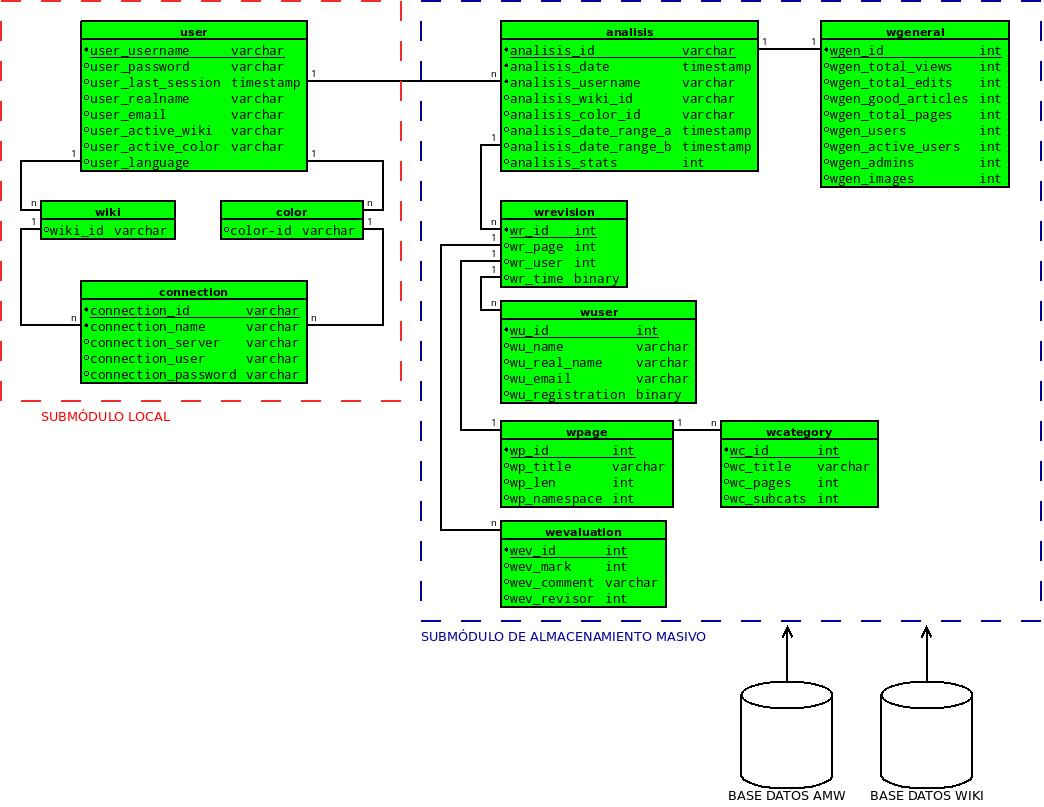
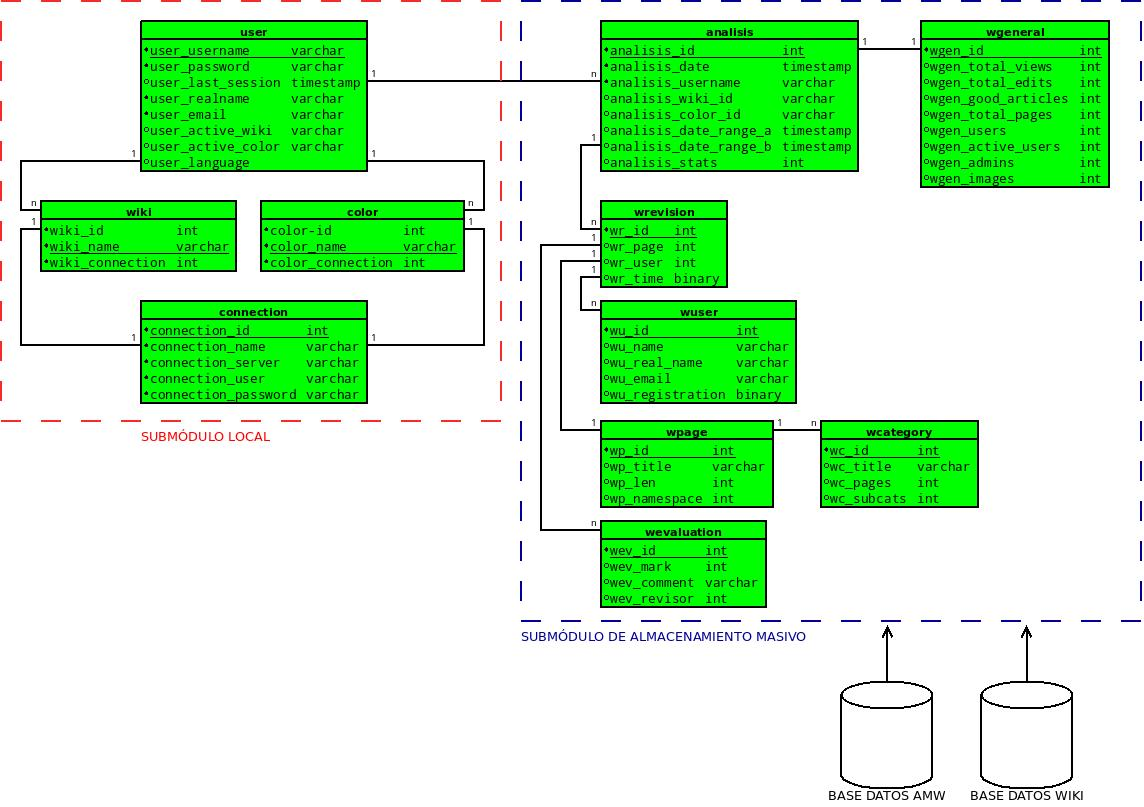
Modificada db local. Optimizado modelo de conexión. Adaptando y optimizando modelo de wikis.
git-svn-id: https://forja.rediris.es/svn/cleverfigures@42 a053ac88-d4ad-4f58-a43f-47ca826c7790

diff --git a/application/models/wiki_model.php b/application/models/wiki_model.php
@@ -10,127 +10,160 @@
 
 class Wiki_model extends CI_Model{
 	
-	//ATTRIBUTES
-	private $wiki_id;
-	private $wiki_connection;
-	private $wiki_link;
-	
-	//METHODS
 	//constructor
-   	function Wiki_model($id, $connection){
+   	function Wiki_model(){
    	   	parent::__construct();
    	   	$this->load->helper('date');
    	   	$ci =& get_instance();
 		$ci->load->model('connection_model');
-   	   	
-		$this->wiki_id = $id;
-		$this->wiki_connection = $connection;
-		
-		$check = $this->db->query("select * from Wiki where wiki_id == $this->wiki_id");
+   	}
+   	
+   	private function wconnection($name){
+   		$query = $this->db->query("select wiki_connection from wiki where wiki_name == $name");
+   		if($check->result()->num_rows() == 0)
+   			return "connection(): ERR_NONEXISTENT";
+   		else
+   			foreach($check->result() as $row)
+   				return $row->wiki_connection;
+   	}
+   	
+   	function new_wiki($name, $db_server, $db_name, $db_user, $db_password){
+   		$my_con = $this->connection_model->new_connection($db_server, $db_name, $db_user, $db_password);
+   		if(gettype($my_con) != "integer")
+   			return "new_wiki(): $my_con";
+   			
+   		$check = $this->db->query("select * from wiki where wiki_name == $name");
    		if($check->result()->num_rows() != 0)
-   			die("Wiki_model:__construct(): Wiki $this->wiki_id already exists.");
+   			return "new_wiki(): ERR_ALREADY_EXISTS";
    		else{
-   			$sql = array('wiki_id' => "$this->wiki_id",
-   				'wiki_connection' => "$this->wiki_connection"
+   			$sql = array('wiki_id' => "",
+   				'wiki_name' => "$name",
+   				'wiki_connection' => "$my_con"
    				);
-			$this->db->insert('Wiki', $sql);
+			$this->db->insert('wiki', $sql);
 		
 			if($this->db->affected_rows() != 1) 
-				die("Wiki_model:__construct(): Error saving wiki $this->wiki_id.");
+				return "new_wiki(): ERR_AFFECTED_ROWS (".$this->db->affected_rows().")";
+			else
+				return  $this->db->insert_id();
 		}
    	}
    	
-   	function id(){return $this->wiki_id;}
-   	
-   	function connection(){return $this->wiki_connection;}
-   	
-   	function fetch_general_stats(){
-   		return $this->connection()->get_query("SELECT ss_total_views, ss_total_edits, ss_good_articles, ss_total_pages, ss_users, ss_active_users, ss_admins, ss_images FROM site_stats LIMIT 1");
+   	function fetch_general_stats($name){
+   		$link = $this->connection_model->connect($this->wconnection($name));
+   		$result = $this->connection_model->get_query($link, "SELECT * FROM site_stats");
+   		foreach($result as $row){
+   			$sql = array('wgen_id' => '',
+   					'wgen_total_views' => "$row->ss_total_views",
+   					'wgen_total_edits' => "$row->ss_total_edits",
+   					'wgen_good_articles' => "$row->ss_good_articles",
+   					'wgen_total_peges' => "$row->ss_total_pages",
+   					'wgen_users' => "$row->ss_users",
+   					'wgen_active_users' => "$row->ss_active_users",
+   					'wgen_admins' => "$row->ss_admins",
+   					'wgen_images' => "$row->ss_images",
+   				);
+	
+			$this->db->insert('wgeneral', $sql);
+		
+			if($this->db->affected_rows() != 1) 
+				return "fetch_general_stats(): ERR_AFFECTED_ROWS (".$this->db->affected_rows().")";
+			else 
+				return $this->db->insert_id();
+   		}
    	}
    	
-   	function fetch_linked_categories($date_range_a => 'default', $date_range_b => 'default', $page => 'default'){
+   	function fetch_category_links($name, $date_range_a => 'default', $date_range_b => 'default'){ //PENDIENTE AÑADIR FILTROS!!!
+   		$link = $this->connection_model->connect($this->wconnection($name));
+   		
    		if($date_range_a == 'default'){
-   			$initial_date = $this->connection()->get_query("SELECT rev_timestamp FROM revision ORDER BY rev_timestamp ASC LIMIT 1");
+   			$initial_date = $this->connection_model->get_query($link, "SELECT rev_timestamp FROM revision ORDER BY rev_timestamp ASC LIMIT 1");
    			if($initial_date->num_rows() != 0)
    				foreach ($initial_date as $row)
    					$date_range_a = $row -> rev_timestamp;
    			else
-   				return false;
+   				return "fetch_linked_categories(): ERR_NONEXISTENT";
    		}
    		
    		if($date_range_b == 'default')
    			$date_range_b = date('Y-m-d H:i:s', now());
    		
-   		$result = $this->connection()->get_query("SELECT cl_from, cl_to FROM scategorylinks WHERE cl_from IN (SELECT DISTINCT rev_page FROM revision WHERE rev_timestamp>=$date_range_a and rev_timestamp<=$date_range_b)");
+   		$result = $this->connection_model->get_query($link, "SELECT cl_from, cl_to FROM categorylinks WHERE cl_from IN (SELECT DISTINCT rev_page FROM revision WHERE rev_timestamp >= $date_range_a and rev_timestamp <= $date_range_b)");
    		
-   		$counter = 0;
+   		$data = array();
    		foreach ($result as $row){
-   			$array[$row->cl_from] = $row->cl_to;
-   			$counter++;
+   			$data['wp_id'] = $row->cl_from,
+   			$data['wc_title'] = $row->cl_to;
+   			
+   			$this->connection_model->make_insert($link, 'wpage-wcategory', $data);
    		}
    		
-   		return $array; //$[page id] = category name
+   		return true;
    	}
    	
-   	function fetch_all_categories($date_range_a => 'default', $date_range_b => 'default'){
+   	function fetch_categories($name, $date_range_a => 'default', $date_range_b => 'default'){ //PENDIENTE AÑADIR FILTROS!!!
+   		$link = $this->connection_model->connect($this->wconnection($name));
+   		
    		if($date_range_a == 'default'){
-   			$initial_date = $this->connection()->get_query("SELECT rev_timestamp FROM revision ORDER BY rev_timestamp ASC LIMIT 1");
+   			$initial_date = $this->connection_model->get_query($link, "SELECT rev_timestamp FROM revision ORDER BY rev_timestamp ASC LIMIT 1");
    			if($initial_date->num_rows() != 0)
    				foreach ($initial_date as $row)
    					$date_range_a = $row -> rev_timestamp;
    			else
-   				return false;
+   				return "fetch_all_categories(): ERR_NONEXISTENT";
    		}
    		
    		if($date_range_b == 'default')
    			$date_range_b = date('Y-m-d H:i:s', now());
    		
-   		$result = $this->connection()->get_query("SELECT page_title FROM page WHERE page_namespace=14 AND page_id IN (SELECT DISTINCT rev_page FROM revision WHERE rev_timestamp>=$date_range_a and rev_timestamp<=$date_range_b)");
+   		$result = $this->connection_model->get_query($link, "SELECT cat_title, cat_pages, cat_subcats FROM page, category WHERE page_title == cat_title AND page_namespace=14 AND page_id IN (SELECT DISTINCT rev_page FROM revision WHERE rev_timestamp>=$date_range_a and rev_timestamp<=$date_range_b)");
    		
-   		$counter = 0;
+   		$data = array();
    		foreach ($result as $row){
-   			$array[$counter] = $row->page_title;
-   			$counter++;
+   			$data['wc_id'] = '',
+   			$data['wc_title'] = $row->cat_title,
+   			$data['wc_pages'] = $row->cat_pages,
+   			$data['wc_subcats'] = $row->cat_subcats;
+   			
+   			$this->connection_model->make_insert($link, 'wcategory', $data);
    		}
    		
-   		return $array; //$[index] = page title
+   		return true;
    	}
    	
-   	function fetch_first_date(){
-   		$result = $this->connection()->get_query("SELECT rev_timestamp FROM revision ORDER BY rev_timestamp ASC LIMIT 1");
+   	function fetch_images($name, $date_range_a => 'default', $date_range_b => 'default'){ //PENDIENTE AÑADIR FILTROS!!!
+   		$link = $this->connection_model->connect($this->wconnection($name));
    		
-   		$counter = 0;
-   		foreach ($result as $row){
-   			$array[$counter] = $row->rev_timestamp;
-   			$counter++;
-   		}
-   		
-   		return $array; //$[index] = rev_timestamp
-   	}
-   	
-   	function fetch_image_info($date_range_a => 'default', $date_range_b => 'default'){
    		if($date_range_a == 'default'){
-   			$initial_date = $this->connection()->get_query("SELECT rev_timestamp FROM revision ORDER BY rev_timestamp ASC LIMIT 1");
+   			$initial_date = $this->connection_model->get_query($link, "SELECT rev_timestamp FROM revision ORDER BY rev_timestamp ASC LIMIT 1");
    			if($initial_date->num_rows() != 0)
    				foreach ($initial_date as $row)
    					$date_range_a = $row -> rev_timestamp;
    			else
-   				return false;
+   				return "fetch_images(): ERR_NONEXISTENT";
    		}
    		
    		if($date_range_b == 'default')
    			$date_range_b = date('Y-m-d H:i:s', now());
    		
-   		$result = $this->connection()->get_query("SELECT img_name, img_user, img_user_text, img_timestamp, img_size FROM image WHERE img_timestamp>=$date_range_a AND img_timestamp<=$date_range_b");
+   		$result = $this->connection_model->get_query($link, "SELECT img_name, img_user, img_user_text, img_timestamp, img_size FROM image WHERE img_timestamp >= $date_range_a AND img_timestamp <= $date_range_b");
    		
-   		$counter = 0;
+   		$data = array();
    		foreach ($result as $row){
-   			$array[$counter] = $row->page_title;
-   			$counter++;
+   			$data['wc_id'] = '',
+   			$data['wi_name'] = $row->img_name,
+   			$data['wi_user'] = $row->img_user,
+   			$data['wi_user_text'] = $row->img_user_text,
+   			$data['wi_timestamp'] = $row->img_timestamp,
+   			$data['wi_size'] = $row->img_size;
+   			
+   			$this->connection_model->make_insert($link, 'wimage', $data);
    		}
    		
-   		return $array; //$[index] = page title
+   		return true;
    	}
+   	
+   	function fetch_users(){}/////////////////////////////////
    	
    	function delete_wiki(){
    		$check = $this->db->query("select * from Wiki where wiki_id == $this->wiki_id");

diff --git a/application/models/connection_model.php b/application/models/connection_model.php
@@ -1,110 +1,86 @@
 <?php
 
 //AVAILABLE METHODS
-// 	name()
-//    	server()
-//    	user()
-//    	password()
-//    	get_query($query_string)
-//    	delete_connection()
+// 	new_connection($server, $name, $user, $password)
+//    	connect($id)
+//    	get_query($link, $query_string)
+//    	delete_connection($id)
    	
 class Connection_model extends CI_Model{
 	
-	//ATTRIBUTES
-   	private $connection_id;
-	private $connection_name;
-	private $connection_server;
-	private $connection_user;
-	private $connection_password;
-	private $connection_link;
-	
-	//METHODS
 	//constructor
-   	function Connection_model($id, $server => 'default', $name => 'default', $user => 'default', $password => 'default'){
+   	function Connection_model(){
    	   	parent::__construct();
-   	   	
-   	   	if($server == 'default' && $name == 'default' && $user == 'default' && $password == 'default'){
-   			$query = $this->db->query("select * from Connection where connection_id == $id");
-   			if($query->result()->num_rows() != 0)
-   				foreach ($query->result() as $row){
-   					$this->connection_id = $row -> connection_id;
-   					$this->connection_server = $row -> connection_server;
-   					$this->connection_name = $row -> connection_name;
-   					$this->connection_user = $row -> connection_user;
-   					$this->connection_password = $row -> connection_password;
-   				}
-   			else
-   				die("Connection_model:__construct(): Connection $id not found.");
-   	   	}
-   	   	else{
-   	   		$this->connection_id = $id;
-			$this->connection_server = $server;
-   	   		$this->connection_name = $name;
-			$this->connection_user = $user;
-			$this->connection_password = $password;
-			
-			$check = $this->db->query("select * from Connection where connection_id == $this->connection_id");
-   			if($check->result()->num_rows() != 0)
-   				die("Connection_model:__construct(): Connection $this->connection_id already exists.");
-   			else{
-   				$sql = array('connection_id' => "$this->connection_id",
-   					'connection_name' => "$this->connection_name",
-   					'connection_server' => "$this->connection_server",
-   					'connection_user' => "$this->connection_user",
-   					'connection_password' => "$this->connection_password"
-   				);
-	
-				$this->db->insert('Connection', $sql);
-		
-				if($this->db->affected_rows() != 1) 
-					die("Connection_model:__construct(): Error saving connection $this->connection_id.");
-				else return TRUE;
-			}
-   	   	}
-		
-		$dba['hostname'] = $this->connection_server;
-		$dba['username'] = $this->connection_user;
-		$dba['password'] = $this->connection_password;
-		$dba['database'] = $this->connection_name;
-		$dba['dbdriver'] = 'mysql';
-		$dba['dbprefix'] = '';
-		$dba['pconnect'] = FALSE;
-		$dba['db_debug'] = TRUE;
-		$dba['cache_on'] = FALSE;
-		$dba['cachedir'] = '';
-		$dba['char_set'] = 'utf8';
-		$dba['dbcollat'] = 'utf8_general_ci';
-		$dba['swap_pre'] = '';
-		$dba['autoinit'] = TRUE;
-		$dba['stricton'] = FALSE;
-			
-   		$this->connection_link = $this->load->database($dba, TRUE);
    	}
    	
-   	function id(){return $this->connection_id;}
+   	function new_connection($server, $name, $user, $password){
+   	   	$check = $this->db->query("select * from connection where connection_server == $server and connection_name == $name and connection_user == $user");
+   		if($check->result()->num_rows() != 0)
+   			return "new_connection(): ERR_ALREADY_EXISTS";
+   		else{
+   			$sql = array('connection_id' => "",
+   				'connection_name' => "$name",
+   				'connection_server' => "$server",
+   				'connection_user' => "$user",
+   				'connection_password' => "$password"
+   			);
+					$this->db->insert('Connection', $sql);
+	
+			if($this->db->affected_rows() != 1) 
+				return "new_connection(): ERR_AFFECTED_ROWS (".$this->db->affected_rows().")";
+			else 
+				return  $this->db->insert_id();
+		}
+	}
+	
+	function connect($id){
+		$query = $this->db->query("select * from connection where connection_id == $id");
+   		if($query->result()->num_rows() == 0)
+   			return "connect(): ERR_NONEXISTENT";
+   		else{
+   			$result = $query->result();
+   			foreach($result as $row){
+   				$dba['hostname'] = $row->connection_server;
+				$dba['username'] = $row->connection_user;
+				$dba['password'] = $row->connection_password;
+				$dba['database'] = $row->connection_name;
+				$dba['dbdriver'] = 'mysql';
+				$dba['dbprefix'] = '';
+				$dba['pconnect'] = FALSE;
+				$dba['db_debug'] = TRUE;
+				$dba['cache_on'] = FALSE;
+				$dba['cachedir'] = '';
+				$dba['char_set'] = 'utf8';
+				$dba['dbcollat'] = 'utf8_general_ci';
+				$dba['swap_pre'] = '';
+				$dba['autoinit'] = TRUE;
+				$dba['stricton'] = FALSE;
+			
+   				return $this->load->database($dba, TRUE);
+   			}
+   				
+		}
+	}
    	
-   	function name(){return $this->connection_name;}
-   	
-   	function server(){return $this->connection_server;}
-   	
-   	function user(){return $this->connection_user;}
-   	
-   	function password(){return $this->connection_password;}
-   	
-   	function clink(){return $this->connection_link;}
-   	
-   	function get_query($query_string){
-   		$query = $this->connection_link->query($query_string);
+   	function get_query($link, $query_string){
+   		$query = $link->query($query_string);
    		return $query->result();
    	}
    	
-   	function delete_connection(){
-   		$check = $this->db->query("select * from Connection where connection_id == $this->connection_id");
+   	function make_insert($link, $table, $insert_array){
+   		$link->insert_string($table, $insert_array);
+   	}
+   	
+   	function delete_connection($id){
+   		$check = $this->db->query("select * from connection where connection_id == $id");
    		if($check->result()->num_rows() == 0)
-   			die("delete_connection(): Connection $this->connection_id doesn't exist.");
+   			return "delete_connection(): ERR_NONEXISTENT";
    		else
-   		 	$this->db->delete('Connection', array('connection_id' => $this->connection_name)); 
-   		 	return TRUE;
+   		 	$this->db->delete('connection', array('connection_id' => $id)); 
+   		 	if($this->db->affected_rows() != 1) 
+				return "delete_connection(): ERR_AFFECTED_ROWS (".$this->db->affected_rows().")";
+			else 
+				return  true;
    	}
 }
 
